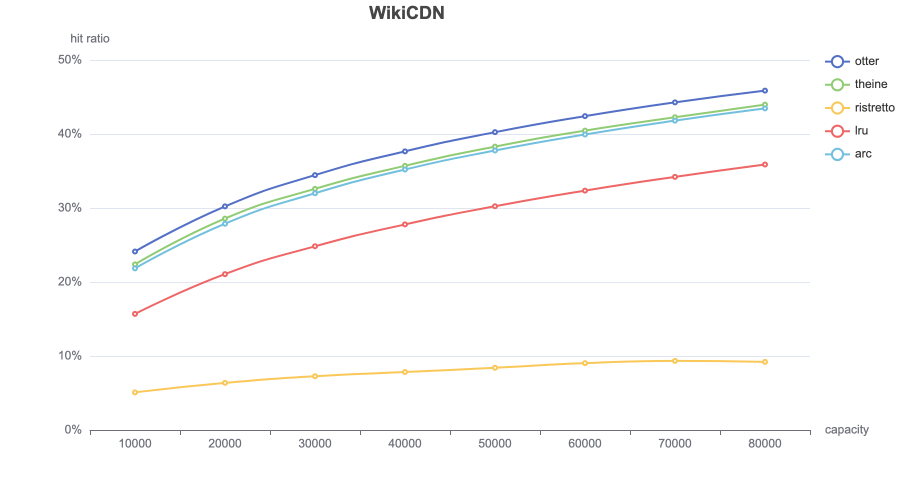
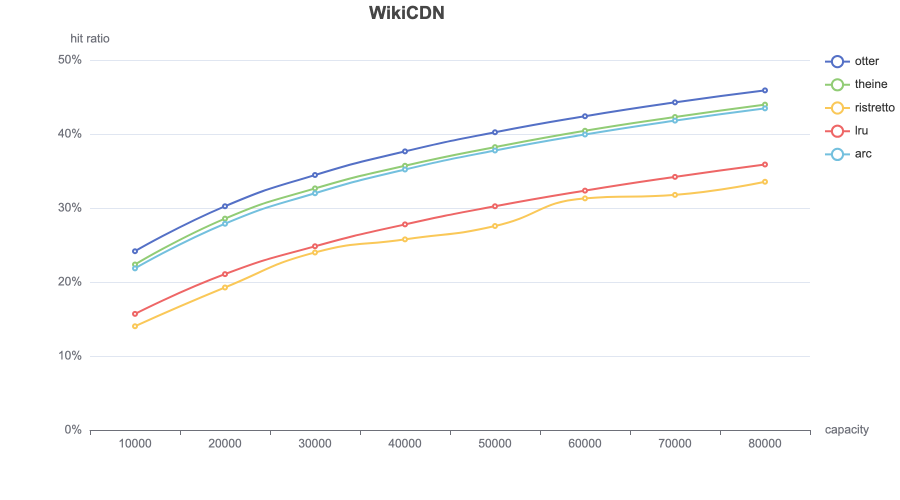
[Chore] Update benchmarks

diff --git a/memory/main.go b/memory/main.go
@@ -10,8 +10,10 @@ import (
 	"time"
 
 	"github.com/Yiling-J/theine-go"
+	"github.com/bluele/gcache"
 	"github.com/dgraph-io/ristretto"
 	hashicorp "github.com/hashicorp/golang-lru/v2/expirable"
+	"github.com/jellydator/ttlcache/v3"
 	"github.com/karlseguin/ccache/v3"
 	"github.com/maypok86/otter"
 )
@@ -45,11 +47,13 @@ func main() {
 	}
 
 	constructor, ok := map[string]func(int){
-		"otter":     newOtter,
-		"ristretto": newRistretto,
-		"theine":    newTheine,
-		"hashicorp": newHashicorp,
-		"ccache":    newCcache,
+		"otter":      newOtter,
+		"theine":     newTheine,
+		"ristretto":  newRistretto,
+		"ccache":     newCcache,
+		"gcache":     newGcache,
+		"ttlcache":   newTTLCache,
+		"golang-lru": newHashicorp,
 	}[name]
 	if !ok {
 		log.Fatalf("not found cache %s\n", name)
@@ -60,7 +64,7 @@ func main() {
 
 	constructor(capacity)
 
-	runtime.GC()
+	// runtime.GC()
 
 	var m runtime.MemStats
 	runtime.ReadMemStats(&m)
@@ -87,9 +91,10 @@ func newOtter(capacity int) {
 
 func newRistretto(capacity int) {
 	cache, err := ristretto.NewCache(&ristretto.Config{
-		NumCounters: 10 * int64(capacity),
-		MaxCost:     int64(capacity),
-		BufferItems: 64,
+		NumCounters:        10 * int64(capacity),
+		MaxCost:            int64(capacity),
+		BufferItems:        64,
+		IgnoreInternalCost: true,
 	})
 	if err != nil {
 		log.Fatal(err)
@@ -113,6 +118,26 @@ func newCcache(capacity int) {
 	cache := ccache.New(ccache.Configure[string]().MaxSize(int64(capacity)))
 	for _, key := range keys {
 		cache.Set(key, key, time.Hour)
+	}
+}
+
+func newGcache(capacity int) {
+	cache := gcache.New(capacity).Expiration(time.Hour).LRU().Build()
+	for _, key := range keys {
+		if err := cache.Set(key, key); err != nil {
+			panic(err)
+		}
+	}
+}
+
+func newTTLCache(capacity int) {
+	cache := ttlcache.New[string, string](
+		ttlcache.WithTTL[string, string](time.Hour),
+		ttlcache.WithCapacity[string, string](uint64(capacity)),
+	)
+	go cache.Start()
+	for _, key := range keys {
+		cache.Set(key, key, ttlcache.DefaultTTL)
 	}
 }
 

diff --git a/client/golanglru.go b/client/golanglru.go
@@ -1,8 +1,11 @@
 package client
 
 import (
+	"time"
+
 	"github.com/hashicorp/golang-lru/arc/v2"
 	lru "github.com/hashicorp/golang-lru/v2"
+	"github.com/hashicorp/golang-lru/v2/expirable"
 )
 
 type LRU[K comparable, V any] struct {
@@ -58,5 +61,31 @@ func (c *ARC[K, V]) Name() string {
 }
 
 func (c *ARC[K, V]) Close() {
+	c.client = nil
+}
+
+type GolangLRU[K comparable, V any] struct {
+	client *expirable.LRU[K, V]
+}
+
+func (c *GolangLRU[K, V]) Init(capacity int) {
+	client := expirable.NewLRU[K, V](capacity, nil, time.Hour)
+	c.client = client
+}
+
+func (c *GolangLRU[K, V]) Get(key K) (V, bool) {
+	return c.client.Get(key)
+}
+
+func (c *GolangLRU[K, V]) Set(key K, value V) {
+	c.client.Add(key, value)
+}
+
+func (c *GolangLRU[K, V]) Name() string {
+	return "golang-lru"
+}
+
+func (c *GolangLRU[K, V]) Close() {
+	c.client.Purge()
 	c.client = nil
 }

diff --git a/client/ttlcache.go b/client/ttlcache.go
@@ -1,0 +1,43 @@
+package client
+
+import (
+	"time"
+
+	"github.com/jellydator/ttlcache/v3"
+)
+
+type TTLCache[K comparable, V any] struct {
+	client *ttlcache.Cache[K, V]
+}
+
+func (c *TTLCache[K, V]) Init(capacity int) {
+	client := ttlcache.New[K, V](
+		ttlcache.WithTTL[K, V](time.Hour),
+		ttlcache.WithCapacity[K, V](uint64(capacity)),
+	)
+	go client.Start()
+	c.client = client
+}
+
+func (c *TTLCache[K, V]) Name() string {
+	return "ttlcache"
+}
+
+func (c *TTLCache[K, V]) Get(key K) (V, bool) {
+	i := c.client.Get(key)
+	if i == nil || i.IsExpired() {
+		var zero V
+		return zero, false
+	}
+	return i.Value(), true
+}
+
+func (c *TTLCache[K, V]) Set(key K, value V) {
+	c.client.Set(key, value, ttlcache.DefaultTTL)
+}
+
+func (c *TTLCache[K, V]) Close() {
+	c.client.Stop()
+	c.client.DeleteAll()
+	c.client = nil
+}

diff --git a/client/ristretto.go b/client/ristretto.go
@@ -1,6 +1,8 @@
 package client
 
 import (
+	"time"
+
 	"github.com/dgraph-io/ristretto"
 )
 
@@ -10,9 +12,10 @@ type Ristretto[K comparable, V any] struct {
 
 func (c *Ristretto[K, V]) Init(capacity int) {
 	client, err := ristretto.NewCache(&ristretto.Config{
-		NumCounters: int64(capacity * 10),
-		MaxCost:     int64(capacity),
-		BufferItems: 64,
+		NumCounters:        int64(capacity * 10),
+		MaxCost:            int64(capacity),
+		BufferItems:        64,
+		IgnoreInternalCost: true,
 	})
 	if err != nil {
 		panic(err)
@@ -34,7 +37,7 @@ func (c *Ristretto[K, V]) Get(key K) (V, bool) {
 }
 
 func (c *Ristretto[K, V]) Set(key K, value V) {
-	c.client.Set(key, value, 1)
+	c.client.SetWithTTL(key, value, 1, time.Hour)
 }
 
 func (c *Ristretto[K, V]) Close() {

diff --git a/client/gcache.go b/client/gcache.go
@@ -1,0 +1,40 @@
+package client
+
+import (
+	"time"
+
+	"github.com/bluele/gcache"
+)
+
+type Gcache[K comparable, V any] struct {
+	client gcache.Cache
+}
+
+func (c *Gcache[K, V]) Init(capacity int) {
+	client := gcache.New(capacity).Expiration(time.Hour).LRU().Build()
+	c.client = client
+}
+
+func (c *Gcache[K, V]) Name() string {
+	return "gcache"
+}
+
+func (c *Gcache[K, V]) Get(key K) (V, bool) {
+	v, err := c.client.Get(key)
+	if err != nil {
+		var zero V
+		return zero, false
+	}
+	return v.(V), true
+}
+
+func (c *Gcache[K, V]) Set(key K, value V) {
+	if err := c.client.Set(key, value); err != nil {
+		panic(err)
+	}
+}
+
+func (c *Gcache[K, V]) Close() {
+	c.client.Purge()
+	c.client = nil
+}

diff --git a/client/otter.go b/client/otter.go
@@ -1,6 +1,8 @@
 package client
 
 import (
+	"time"
+
 	"github.com/maypok86/otter"
 )
 
@@ -9,7 +11,7 @@ type Otter[K comparable, V any] struct {
 }
 
 func (c *Otter[K, V]) Init(capacity int) {
-	client, err := otter.MustBuilder[K, V](capacity).Build()
+	client, err := otter.MustBuilder[K, V](capacity).WithTTL(time.Hour).Build()
 	if err != nil {
 		panic(err)
 	}

diff --git a/client/theine.go b/client/theine.go
@@ -1,6 +1,8 @@
 package client
 
 import (
+	"time"
+
 	"github.com/Yiling-J/theine-go"
 )
 
@@ -25,7 +27,7 @@ func (c *Theine[K, V]) Get(key K) (V, bool) {
 }
 
 func (c *Theine[K, V]) Set(key K, value V) {
-	c.client.Set(key, value, 1)
+	c.client.SetWithTTL(key, value, 1, time.Hour)
 }
 
 func (c *Theine[K, V]) Close() {

diff --git a/throughput/bench_test.go b/throughput/bench_test.go
@@ -29,6 +29,9 @@ var (
 		&client.Theine[string, string]{},
 		&client.Ristretto[string, string]{},
 		&client.Ccache[string]{},
+		&client.Gcache[string, string]{},
+		&client.TTLCache[string, string]{},
+		&client.GolangLRU[string, string]{},
 	}
 )
 
